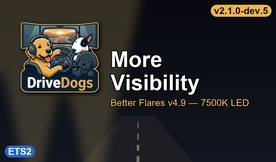
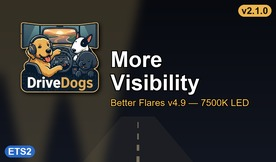
release 2.1.0 after the dev.5 playtest: low beam 220 and x1.3 with a sharper cutoff raised on the left, high beam 320, front aux lamps 350

Changed region(s): [[0.7536, 0.0, 0.9855, 0.1235]]

diff --git a/docs/tuning.md b/docs/tuning.md
@@ -15,7 +15,7 @@ v4.9's own values already exceed 1.0.0 in brightness, low-beam and roof reach an
 relative levers are dropped (user, 2026-10-28). Kept from 1.0.0: the width and high-beam reach (as absolutes) and
 the T5 lamp glow.
 
-| Round | Lever group | Fields | Stock v4.9.1 7500K | Lever | Current (2.1.0-dev.2; 2.0.0 differs only in T2) | Check in-game |
+| Round | Lever group | Fields | Stock v4.9.1 7500K | Lever | Released 2.1.0 (2.0.0: T1 identity, T2 140 / 280 / 280, T3 aspect 2.0, no T6) | Check in-game |
 |---|---|---|---|---|---|---|
 | T1 | Intensity | `*_color*` | low `(4.15, 4.675, 6.2)` | low beam `color_mult` 1.3 (2.0.0: identity) | low `(5.395, 6.0775, 8.06)`; others stock | Road visible at dusk; no whiteout up close at night |
 | T2 | Reach | `*_range` | low 140 / hi 240 / front 260 / roof, front_roof 400 | `range_set` 220 low, 320 hi, 350 front (2.0.0: stock low, 280 hi and front) | 220 / 320 / 350 / 400 | Low beam, high beam and aux lamps carry farther |
@@ -38,7 +38,7 @@ Aim is one value for every truck in v4.9 (`low_beam_left_rot (-0.55, 0, 0)`), no
 | 2.1.0-dev.2 | T2: high beam 320, front aux lamps 350 (dev.1: 350 / 280) | User: more low beam, cutoff looks stretched; wants it sharp like BF's reference shot |
 | 2.1.0-dev.3 | T2 low beam 220; T3 low-beam aspect 2.289; T6 sharpened low-beam masks (gamma 2) | User: left side ends far too close (dark diagonal left of centre); hard to see the road at dusk |
 | 2.1.0-dev.4 | T6: left cutoff lifted (gap 2, cap 10 rows), gamma only below 50% of the peak; T1: low beam x1.3 | User: left side better, still a bit short |
-| 2.1.0-dev.5 | T6: left cutoff up to the right side's level (gap 0, cap 14 rows) | pending |
+| 2.1.0-dev.5 | T6: left cutoff up to the right side's level (gap 0, cap 14 rows) | User OK for now → released as 2.1.0 |
 
 ## Better Flares v4.8 (1.x, history)
 

diff --git a/README.md b/README.md
@@ -4,8 +4,8 @@ An ETS2 add-on for **Better Flares v4.9 - Headlights.2 7500K LED** (by Avelium).
 wider and the low and high beams reach farther for more comfortable night driving, and the headlamp glow stays
 readable in bad daytime conditions, while keeping Better Flares' realistic mood.
 
-**Status: `2.1.0-dev.5`** (low beam 220, x1.3 brighter, sharper cutoff with its left side raised to the right side's level, high beam 320, front aux lamps 350; released `2.0.0`:
-140 / 280 / 280). Better Flares v4.9 only; 7500K LED only; any Headlights.1 pattern. `1.0.0` was for
+**Status: `2.1.0`** (low beam 220, x1.3 brighter, sharper cutoff with its left side raised to the right side's level,
+high beam 320, front aux lamps 350; `2.0.0`: 140 / 280 / 280). Better Flares v4.9 only; 7500K LED only; any Headlights.1 pattern. `1.0.0` was for
 Better Flares v4.8 and breaks on v4.9 (removed beam masks).
 
 ## Load order
